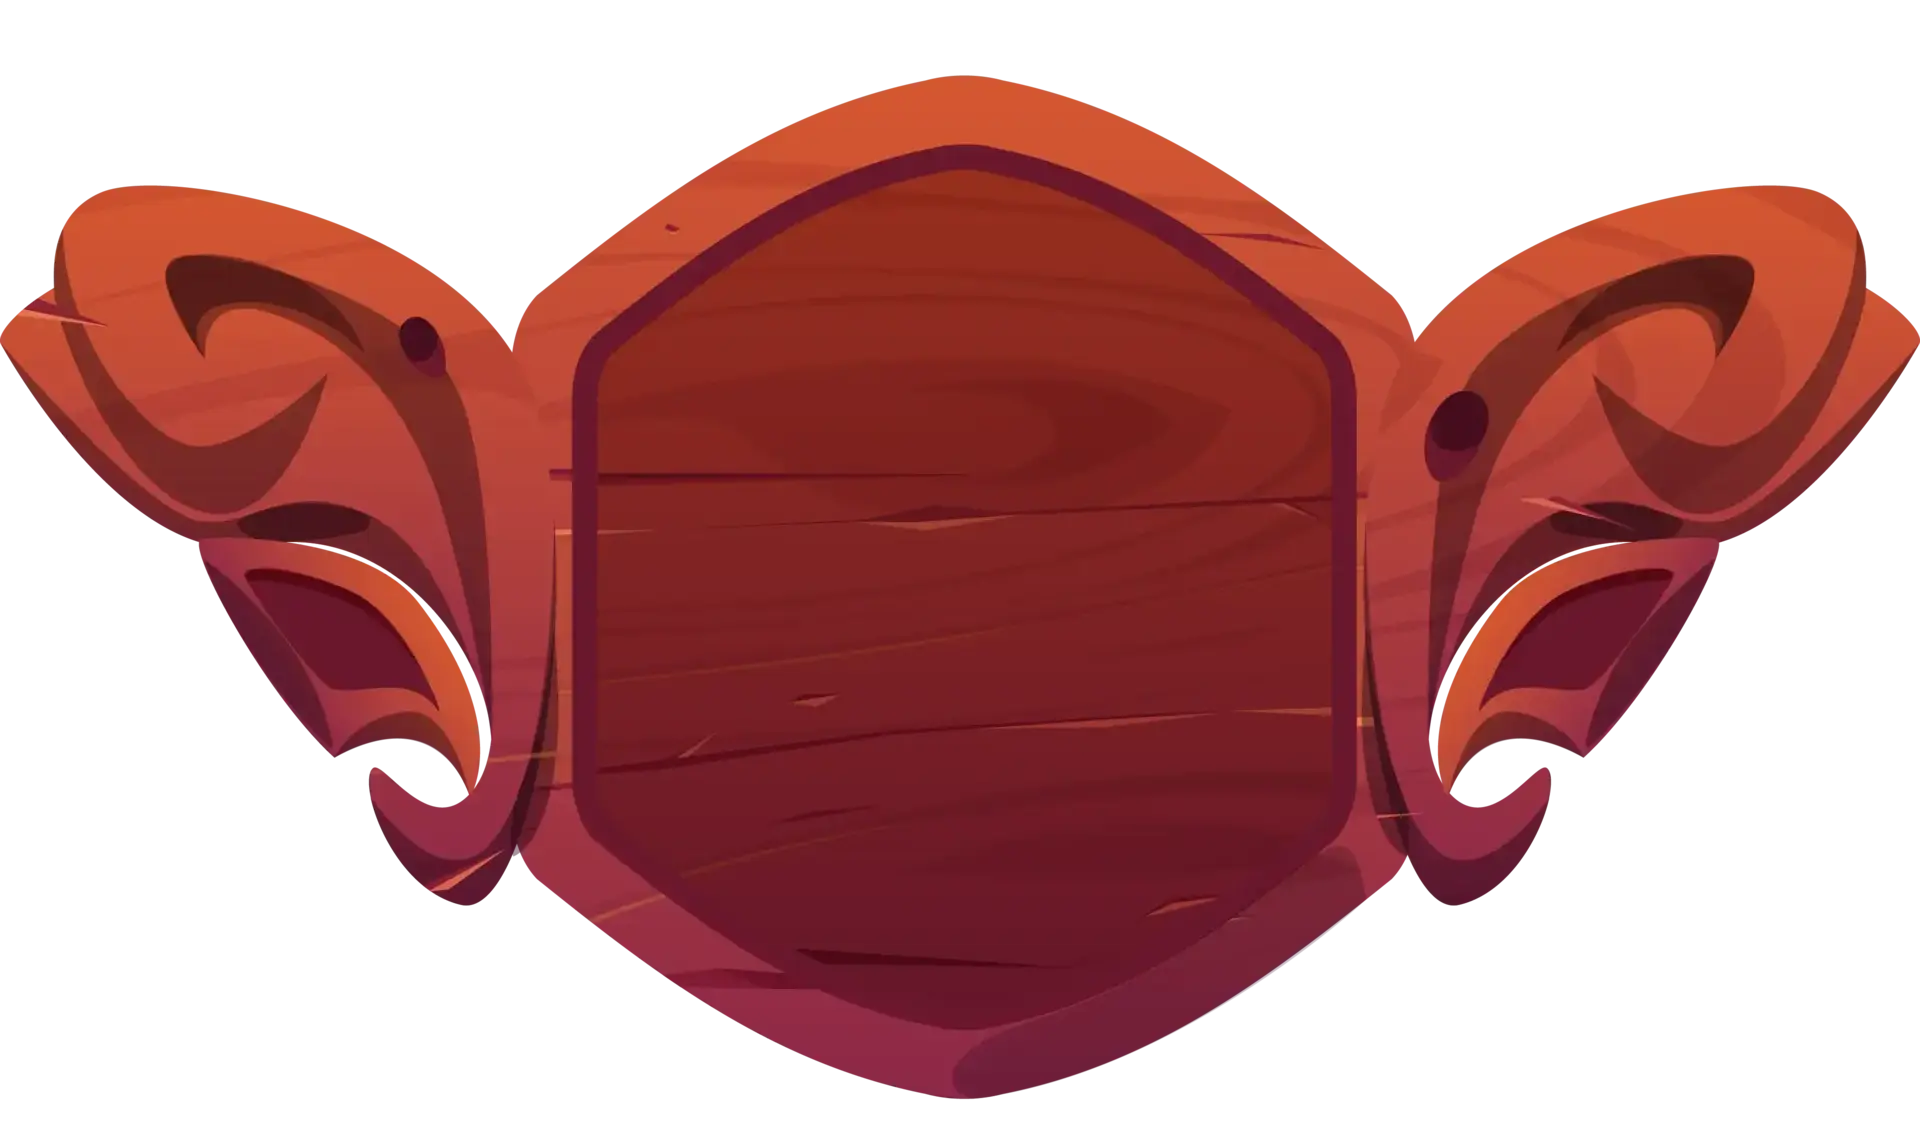
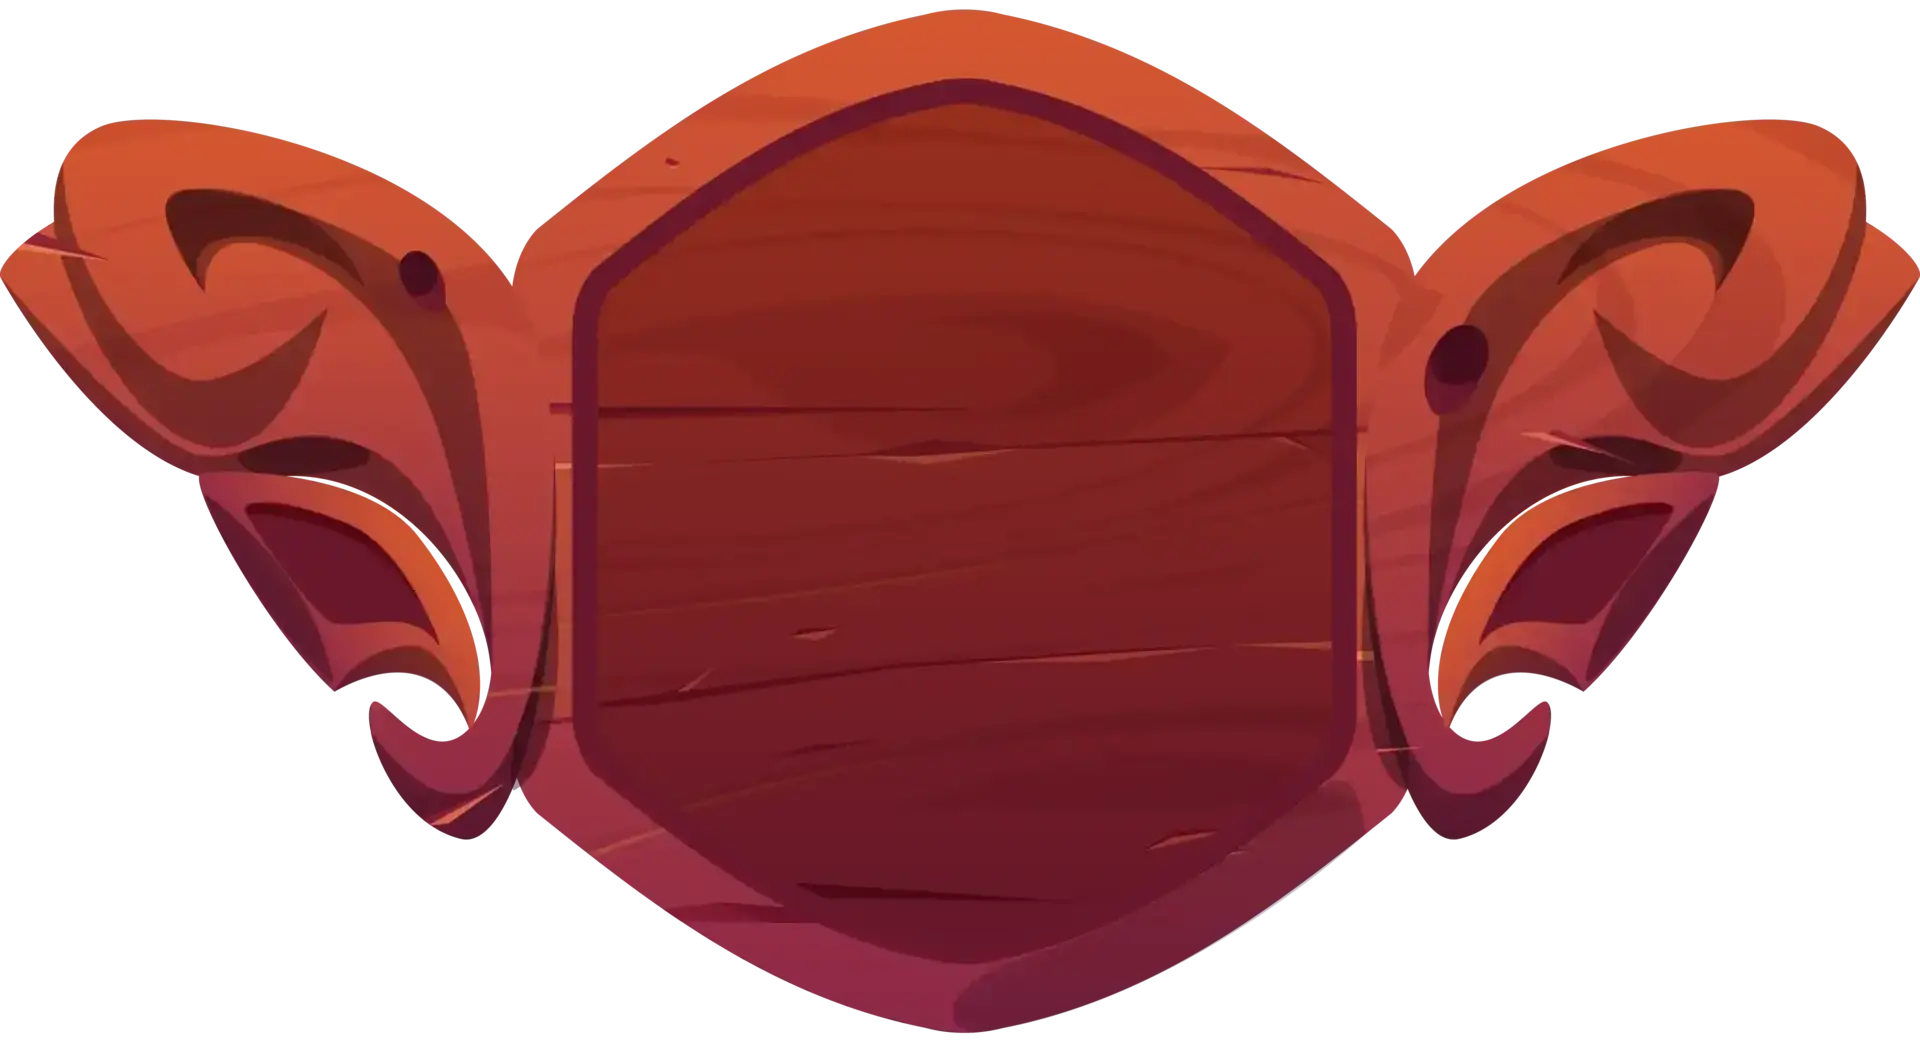
♻ combine sigil components

diff --git a/src/lib/components/molecules/SigilNavPoints.svelte b/src/lib/components/molecules/SigilNavPoints.svelte
@@ -2,15 +2,9 @@
 	import { goto, invalidateAll } from '$app/navigation';
 	import { page } from '$app/stores';
 
-	import SigilWood from '$atoms/sigils/SigilWood.svelte';
-	import SigilBronze from '$atoms/sigils/SigilBronze.svelte';
-	import SigilSilver from '$atoms/sigils/SigilSilver.svelte';
-	import SigilGold from '$atoms/sigils/SigilGold.svelte';
-	import SigilPlatinum from '$atoms/sigils/SigilPlatinum.svelte';
+	import Sigil from '$atoms/sigils/Sigil.svelte';
 
 	export let data;
-
-	const level = $page.data.user.currentStatus;
 </script>
 
 <div class="relative flex h-[calc(50vh)] w-full justify-center bg-slate-100 pt-3">
@@ -35,15 +29,5 @@
 		<span class="text-lg font-medium text-gray-500">{$page.data.user.pointBalance}</span>
 	</div>
 	<!-- Sigil -->
-	{#if level === 'wood'}
-		<SigilWood />
-	{:else if level === 'bronze'}
-		<SigilBronze />
-	{:else if level === 'silver'}
-		<SigilSilver />
-	{:else if level === 'gold'}
-		<SigilGold />
-	{:else if level === 'platinum'}
-		<SigilPlatinum />
-	{/if}
+	<Sigil />
 </div>

diff --git a/src/lib/components/atoms/sigils/Sigil.svelte b/src/lib/components/atoms/sigils/Sigil.svelte
@@ -11,5 +11,10 @@
 	class={weeklyReviewOutstanding ? 'animate-pulse absolute' : 'absolute'}
 	on:click={() => visibleView.update('review')}
 >
-	<slot />
+	<img
+		class="drop-shadow-lg blur-[0.3px] brightness-95 mt-10"
+		width={$page.data.user.currentStatus === 'wood' ? 350 : 330}
+		src="/sigils/{$page.data.user.currentStatus}.webp"
+		alt="Sigil Crest"
+	/>
 </button>
